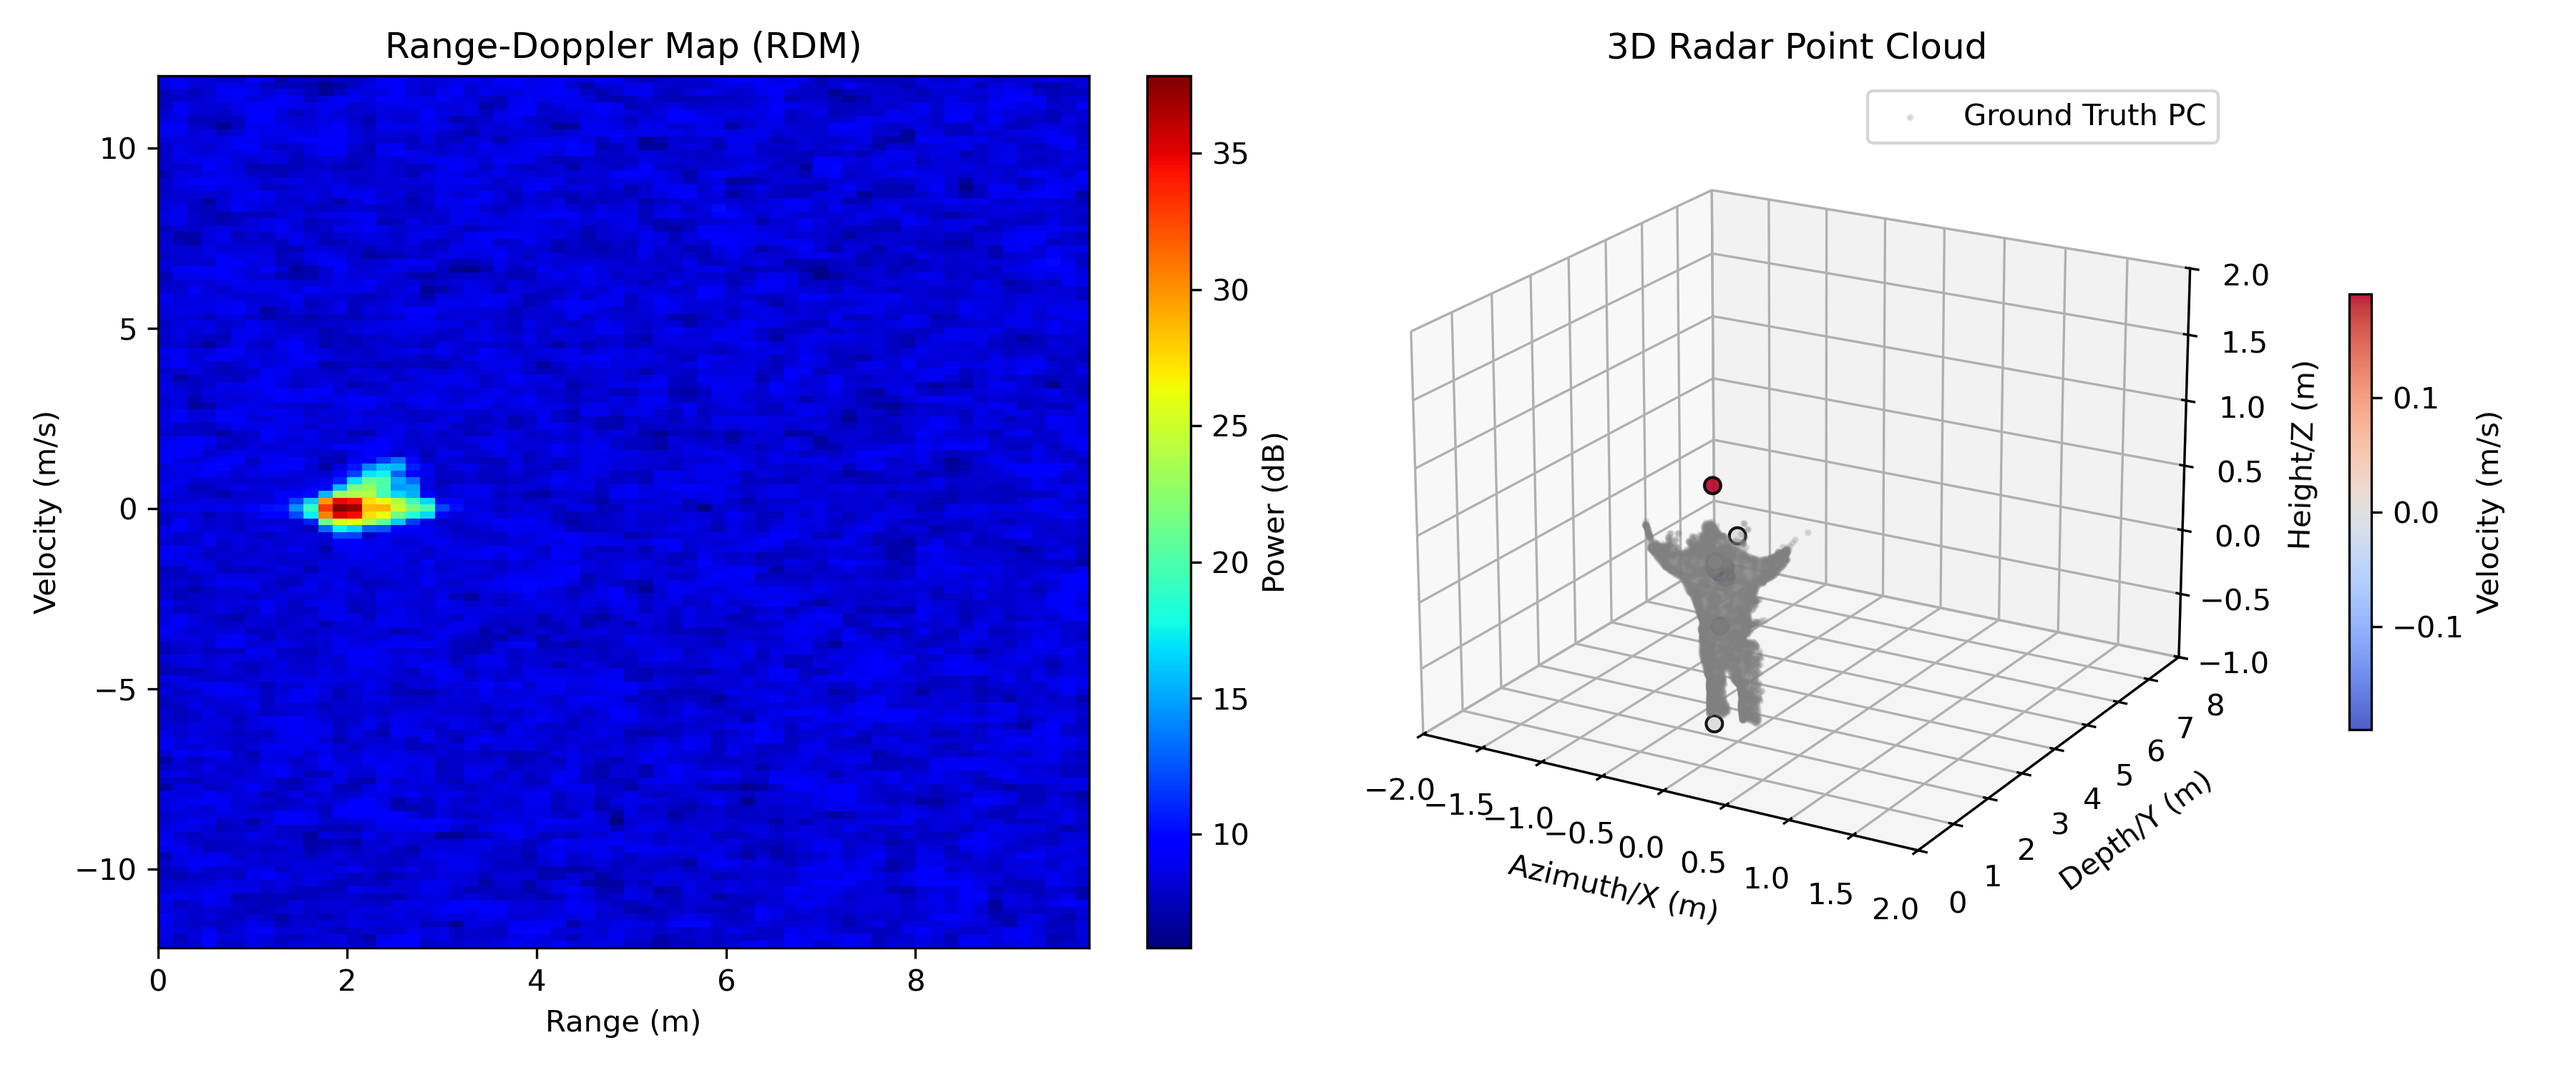
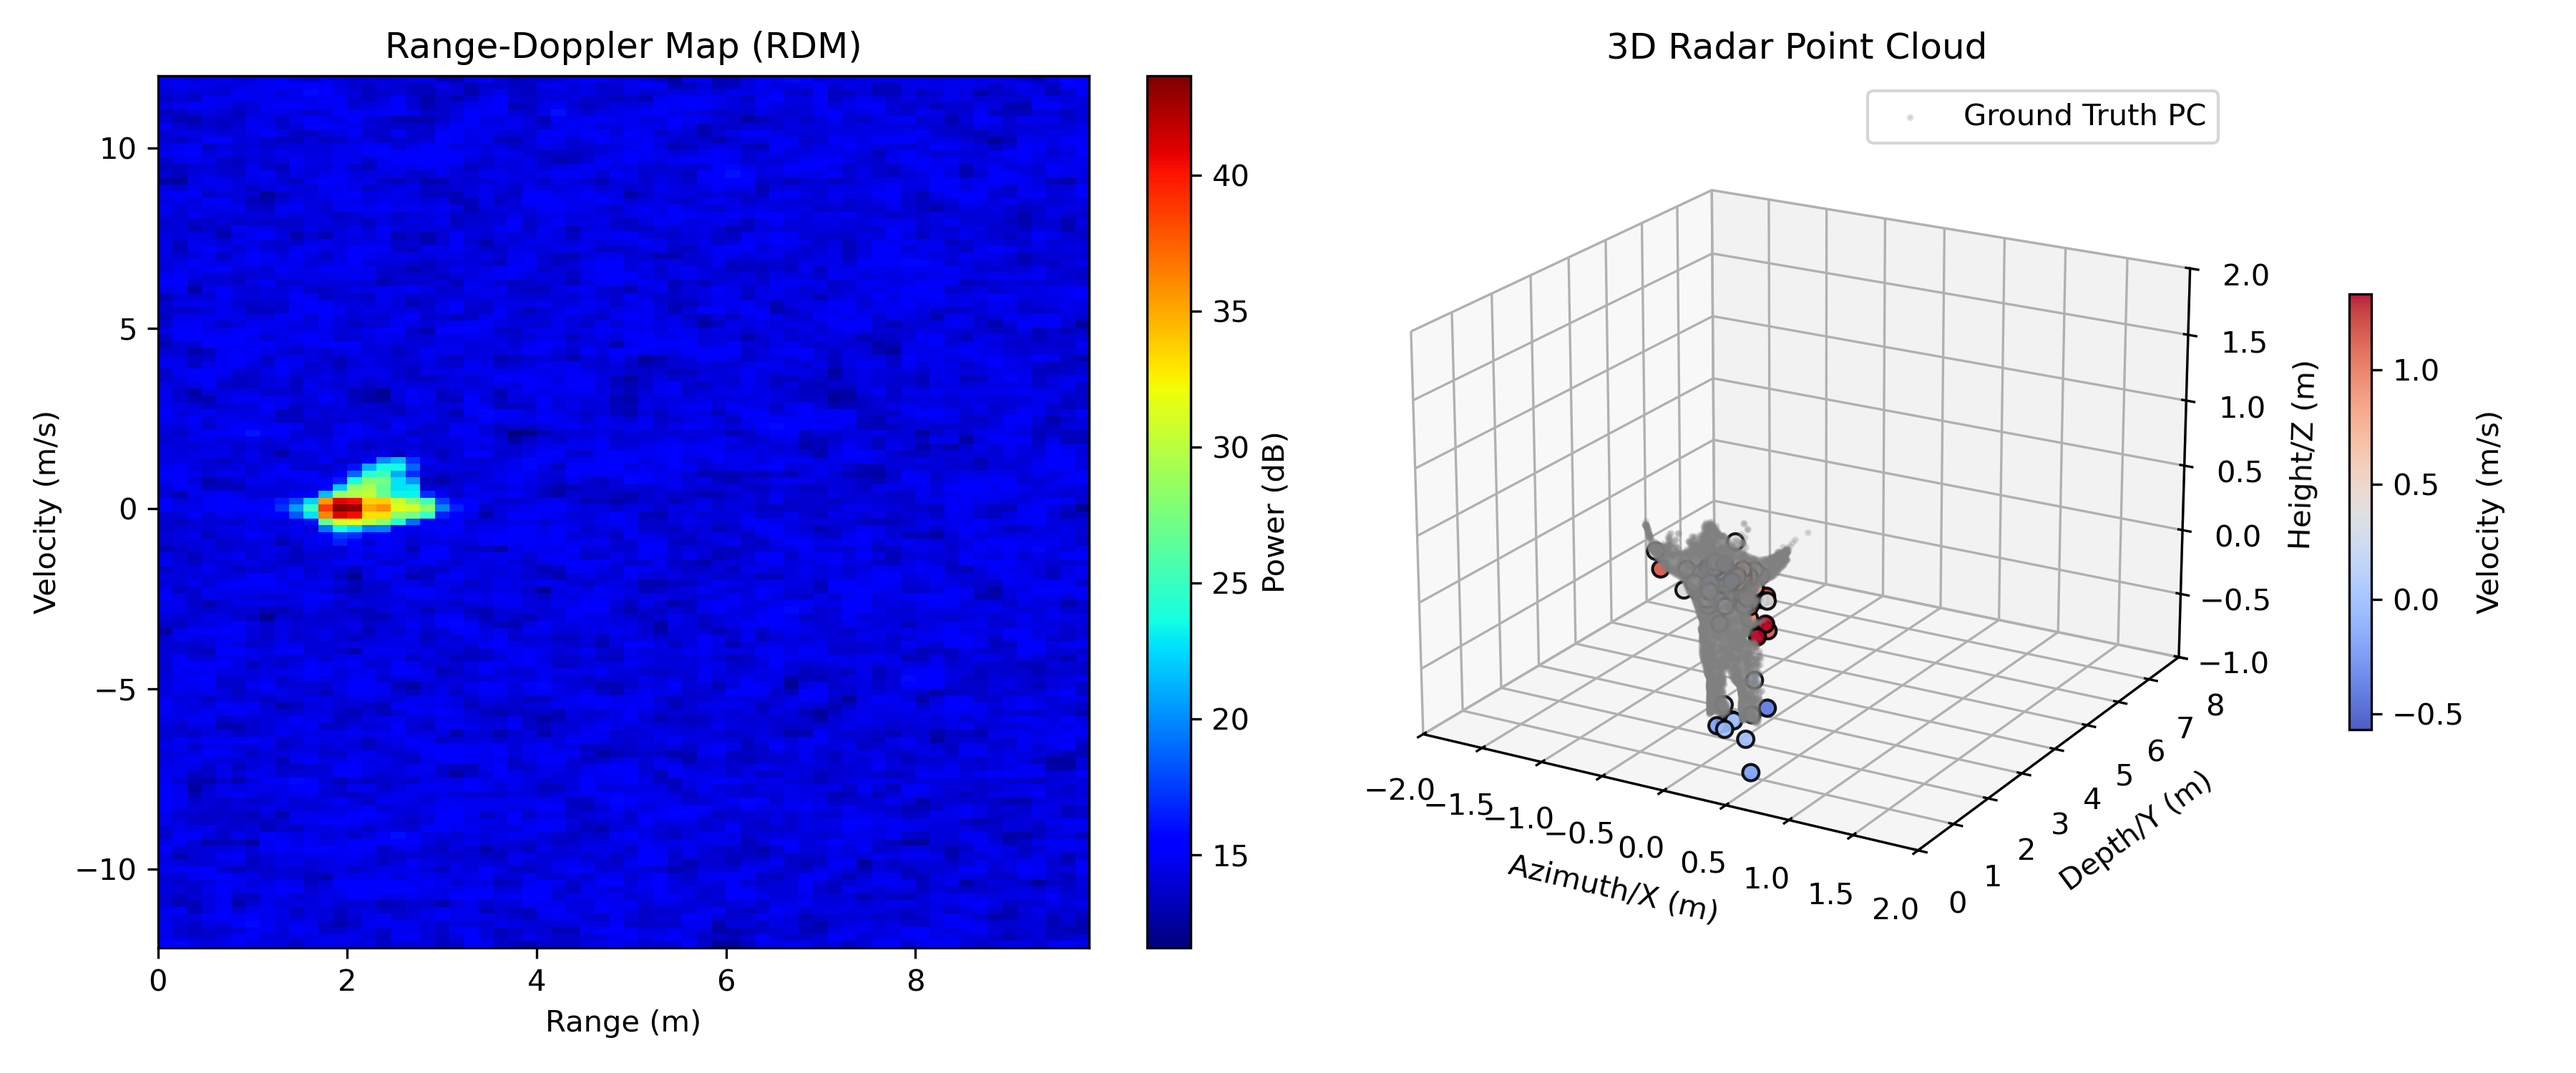
feat: back to os-cfar and choose neighbors around peaks

diff --git a/reconstruction/src/utils/radar_dsp.py b/reconstruction/src/utils/radar_dsp.py
@@ -10,7 +10,7 @@ Description:
 
 
 import numpy as np
-from scipy.signal import convolve2d
+from scipy.ndimage import percentile_filter
 from .radar_config import RadarConfig
 
 def simulate_adc(pc, vel, rcs, config: RadarConfig, batch_size=50):
@@ -240,33 +240,34 @@ def capon_beamforming(data_vector, element_positions, scan_angles_deg, diag_load
     
     return theta_est, spectrum
 
-def ca_cfar_2d(rdm, threshold_db=10.0, **kwargs):
+def ca_cfar_2d(rdm, guard_cells=(2, 2), train_cells=(8, 8), pfa=1e-3):
     """
-    噪声自适应阈值检测，替代传统 CA-CFAR
+    OS-CFAR (Ordered Statistics CFAR)
     
-    CA-CFAR 对人体等扩展目标存在严重的"目标遮蔽"效应：
-    多个目标 bin 互相靠近时，训练单元中的目标能量抬高了噪声估计，
-    导致阈值虚高，大量真实目标被漏检。
-    
-    本方法使用全局中位数估计噪声底，再加上固定 dB 门限进行检测。
-    对于人体室内场景更为可靠。
-    
-    Parameters
-    ----------
-    rdm : ndarray
-        Range-Doppler Map
-    threshold_db : float
-        检测门限，高于噪声底多少 dB 判为目标（默认 10dB）
+    使用训练窗口内的第 75 百分位值作为噪声估计。
+    即使窗口中 25% 的单元被目标污染，噪声估计仍然准确，
+    从而解决了传统 CA-CFAR 对扩展目标的遮蔽问题。
     """
+    gr, gc = guard_cells
+    tr, tc = train_cells
+    
     rdm_sq = rdm ** 2
     
-    # 使用中位数作为噪声底估计（对目标占比 < 50% 的场景鲁棒）
-    noise_floor = np.median(rdm_sq)
+    # OS-CFAR: 用大窗口 75th 百分位作为鲁棒噪声估计
+    win_r = 2 * (gr + tr) + 1
+    win_c = 2 * (gc + tc) + 1
+    noise_est = percentile_filter(rdm_sq, percentile=75, size=(win_r, win_c))
     
-    # 转换 dB 门限为线性乘子
-    threshold = noise_floor * (10 ** (threshold_db / 10.0))
+    # 阈值乘子 (从 pfa 推导)
+    N_train = win_r * win_c - (2*gr+1) * (2*gc+1)
+    alpha = N_train * (pfa ** (-1.0 / max(N_train, 1)) - 1)
+    alpha = np.clip(alpha, 3.0, 30.0)
     
-    mask = rdm_sq > threshold
+    threshold = alpha * noise_est
+    
+    # 附加下界: 防止纯噪声区域随机检出
+    min_power = np.max(rdm_sq) * 1e-5
+    mask = (rdm_sq > threshold) & (rdm_sq > min_power)
     
     return mask
 
@@ -340,80 +341,111 @@ def _find_spectrum_peaks(spectrum, scan_angles, peak_ratio=0.3, min_separation_d
 
 def extract_point_cloud(array_info, range_axis, doppler_axis, rdm):
     """
-    通过二维 CFAR + Capon 多峰波束形成 + 邻域扩展 提取 3D 雷达点云
-    支持同一 Range-Doppler bin 的多角度目标提取
+    OS-CFAR 检测 + Capon 波束形成 + 邻域扩展提取 3D 雷达点云
+    
+    - CFAR 检出 bin: 允许多角度提取 (Capon 多峰)
+    - 邻域扩展 bin: 仅取最强单峰 (避免噪声虚假角度)
+    - 所有 bin 的 Capon 峰值须通过信号质量验证
     """
     grid = array_info['grid']
     az_indices = array_info['az_indices']
     el_indices = array_info['el_indices']
     best_vx_col = array_info['best_vx_col']
     
-    # Capon 角度扫描网格
-    az_scan = np.linspace(-60, 60, 121)   # 方位角: -60° ~ +60°, 1°步长
-    el_scan = np.linspace(-45, 45, 91)    # 俯仰角: -45° ~ +45°, 1°步长
-    
-    # 阵元位置 (归一化到 d=λ/2 单位)
+    az_scan = np.linspace(-60, 60, 121)
+    el_scan = np.linspace(-45, 45, 91)
     az_positions = az_indices.astype(float)
     el_positions = el_indices.astype(float)
     
-    # --- CFAR 检测 ---
+    # 信号质量阈值：Capon 谱峰值/均值 > 此值才接受该角度
+    PEAK_SNR_THRESHOLD = 3.0
+    
+    # --- OS-CFAR 检测 ---
     cfar_mask = ca_cfar_2d(rdm)
     doppler_idx, range_idx = np.where(cfar_mask)
     
-    # --- 邻域扩展: 收集 CFAR 检出点周围的高能量 bin ---
+    cfar_bins = set()
+    for d_idx, r_idx in zip(doppler_idx, range_idx):
+        cfar_bins.add((d_idx, r_idx))
+    
+    # --- 邻域扩展（仅围绕 CFAR 检出点） ---
     N_dop, N_rng = rdm.shape
     NEIGHBOR_RADIUS = 2
-    NEIGHBOR_RATIO = 0.4          # 放宽至 40%
+    NEIGHBOR_RATIO = 0.5
     
-    expanded_bins = set()
-    for d_idx, r_idx in zip(doppler_idx, range_idx):
-        expanded_bins.add((d_idx, r_idx))
+    neighbor_bins = set()
+    for d_idx, r_idx in cfar_bins:
         center_power = rdm[d_idx, r_idx] ** 2
-        
         for dd in range(-NEIGHBOR_RADIUS, NEIGHBOR_RADIUS + 1):
             for dr in range(-NEIGHBOR_RADIUS, NEIGHBOR_RADIUS + 1):
                 if dd == 0 and dr == 0:
                     continue
                 nd, nr = d_idx + dd, r_idx + dr
                 if 0 <= nd < N_dop and 0 <= nr < N_rng:
-                    if rdm[nd, nr] ** 2 > center_power * NEIGHBOR_RATIO:
-                        expanded_bins.add((nd, nr))
+                    key = (nd, nr)
+                    if key not in cfar_bins and rdm[nd, nr] ** 2 > center_power * NEIGHBOR_RATIO:
+                        neighbor_bins.add(key)
     
-    # --- 对每个目标 bin 进行 Capon 多峰角度估计 ---
-    pc_radar = []
-    
-    for d_idx, r_idx in expanded_bins:
-        # 提取方位阵元数据
+    # --- 角度估计辅助函数 ---
+    def _estimate_angles(d_idx, r_idx, allow_multi_peak):
         az_data = grid[d_idx, 0, az_indices, r_idx]
-        
-        # 提取俯仰阵元数据
         el_data = grid[d_idx, el_indices, best_vx_col, r_idx]
         
-        # Capon 方位角谱 → 多峰搜索
         _, az_spec = capon_beamforming(az_data, az_positions, az_scan)
-        az_peaks = _find_spectrum_peaks(az_spec, az_scan, peak_ratio=0.3, min_separation_deg=5.0)
-        
-        # Capon 俯仰角谱 → 多峰搜索
         _, el_spec = capon_beamforming(el_data, el_positions, el_scan)
-        el_peaks = _find_spectrum_peaks(el_spec, el_scan, peak_ratio=0.3, min_separation_deg=8.0)
         
+        # 信号质量验证
+        az_snr = np.max(az_spec) / (np.mean(az_spec) + 1e-30)
+        el_snr = np.max(el_spec) / (np.mean(el_spec) + 1e-30)
+        
+        if az_snr < PEAK_SNR_THRESHOLD:
+            az_list = [0.0]
+        elif allow_multi_peak:
+            az_list = _find_spectrum_peaks(az_spec, az_scan, peak_ratio=0.5, min_separation_deg=10.0)
+        else:
+            az_list = [az_scan[np.argmax(az_spec)]]
+        
+        if el_snr < PEAK_SNR_THRESHOLD:
+            el_list = [0.0]
+        elif allow_multi_peak:
+            el_list = _find_spectrum_peaks(el_spec, el_scan, peak_ratio=0.5, min_separation_deg=10.0)
+        else:
+            el_list = [el_scan[np.argmax(el_spec)]]
+        
+        return az_list, el_list
+    
+    pc_radar = []
+    
+    # CFAR 检出 bin → 多角度提取
+    for d_idx, r_idx in cfar_bins:
+        az_peaks, el_peaks = _estimate_angles(d_idx, r_idx, allow_multi_peak=True)
         v = doppler_axis[d_idx]
         r = range_axis[r_idx]
         intensity = rdm[d_idx, r_idx]
         
-        # 对每个 (方位峰, 俯仰峰) 组合生成一个点
         for theta in az_peaks:
             for phi in el_peaks:
                 if np.isnan(theta) or np.isnan(phi):
                     continue
-                
-                theta_rad = np.deg2rad(theta)
-                phi_rad = np.deg2rad(phi)
-                
+                theta_rad, phi_rad = np.deg2rad(theta), np.deg2rad(phi)
                 x = r * np.cos(phi_rad) * np.sin(theta_rad)
                 y = r * np.cos(phi_rad) * np.cos(theta_rad)
                 z = r * np.sin(phi_rad)
-                
                 pc_radar.append([x, y, z, v, intensity])
+    
+    # 邻域扩展 bin → 仅最强单峰
+    for d_idx, r_idx in neighbor_bins:
+        az_peaks, el_peaks = _estimate_angles(d_idx, r_idx, allow_multi_peak=False)
+        v = doppler_axis[d_idx]
+        r = range_axis[r_idx]
+        intensity = rdm[d_idx, r_idx]
+        theta, phi = az_peaks[0], el_peaks[0]
+        if np.isnan(theta) or np.isnan(phi):
+            continue
+        theta_rad, phi_rad = np.deg2rad(theta), np.deg2rad(phi)
+        x = r * np.cos(phi_rad) * np.sin(theta_rad)
+        y = r * np.cos(phi_rad) * np.cos(theta_rad)
+        z = r * np.sin(phi_rad)
+        pc_radar.append([x, y, z, v, intensity])
     
     return np.array(pc_radar) if len(pc_radar) > 0 else np.zeros((0, 5))

diff --git a/reconstruction/src/radar_generate.py b/reconstruction/src/radar_generate.py
@@ -2,7 +2,7 @@
 Author: Orange
 Date: 2026-02-26 16:53
 LastEditors: Orange
-LastEditTime: 2026-03-04 13:43
+LastEditTime: 2026-03-04 14:42
 FilePath: radar_generate.py
 Description: Vectorized simulator for mmWave FMCW Radar Human Echoes
 '''
